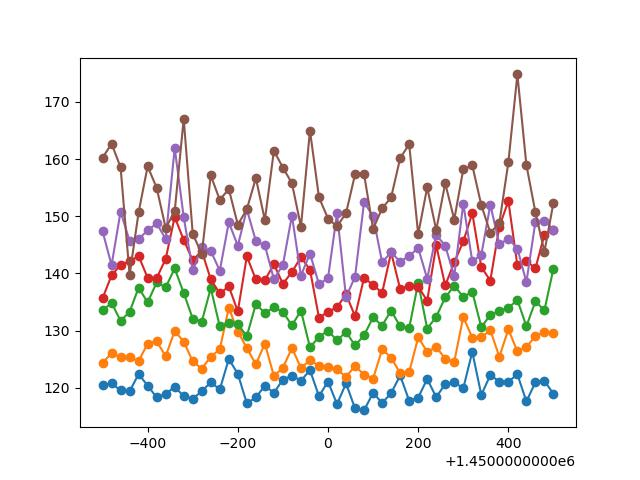
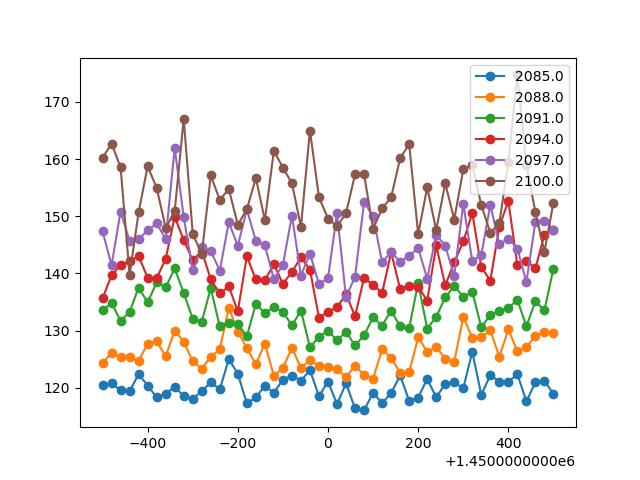
added legend to plot

Changed region(s): [[0.7188, 0.125, 0.9062, 0.4062]]

diff --git a/sakshiPy.py b/sakshiPy.py
@@ -25,7 +25,8 @@ print(data_group)
 plt.figure("Sakshi makes a plot")
 plt.clf()
 for i in steps:
-    plt.plot(data_group.get_group(i).groupby('dipole_freq')['tof'].mean(), '-o')
+    plt.plot(data_group.get_group(i).groupby('dipole_freq')['tof'].mean(), '-o', label = i[1:-1])
+plt.legend()
 plt.show()
 
 plt.savefig('sakshiPlot.jpg')
